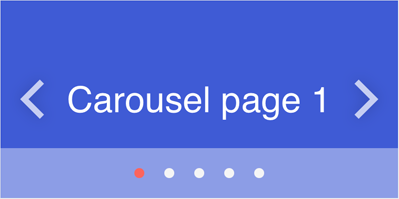
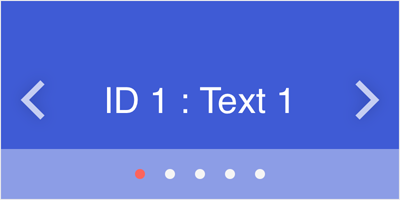
Improve Carousel docs - snippets, template explanation, screenshot

diff --git a/components/carousel/template.md b/components/carousel/template.md
@@ -10,6 +10,8 @@ position: 10
 
 # Carousel Template
 
+The Carousel template defines the markup to be rendered by the component. If a template is not set, the Carousel will not display anything.
+
 The nested `<Template>` tag of the `<TelerikCarousel>` represents a standard [`RenderFragment`](https://docs.microsoft.com/en-us/aspnet/core/blazor/components/templated-components).
 
 The template exposes a `context` parameter, which allows access to the Carousel model and its properties. The context variable can assume a custom name, which is needed for nesting templates of different components.
@@ -20,7 +22,7 @@ The template exposes a `context` parameter, which allows access to the Carousel 
 <TelerikCarousel Data="@CarouselData"
                  Width="400px" Height="200px">
     <Template Context="carouselContext">
-        <div class="carousel-item">@carouselContext.Name</div>
+        <div class="carousel-item">@carouselContext.Text</div>
     </Template>
 </TelerikCarousel>
 
@@ -37,13 +39,13 @@ The template exposes a `context` parameter, which allows access to the Carousel 
     public IEnumerable<CarouselModel> CarouselData = Enumerable.Range(1, 5).Select(x => new CarouselModel
     {
         ID = x,
-        Name = "Name " + x
+        Text = "Text " + x
     });
 
     public class CarouselModel
     {
         public int ID { get; set; }
-        public string Name { get; set; }
+        public string Text { get; set; }
     }
 }
 ````

diff --git a/components/carousel/overview.md b/components/carousel/overview.md
@@ -36,7 +36,7 @@ Here is a simple Carousel that has 5 pages with some styled text.
 <TelerikCarousel Data="@CarouselData"
                  Width="400px" Height="200px">
     <Template>
-        <div class="carousel-item">Carousel page @(context)</div>
+        <div class="carousel-item">ID @(context.ID) : @(context.Text)</div>
     </Template>
 </TelerikCarousel>
 
@@ -50,7 +50,17 @@ Here is a simple Carousel that has 5 pages with some styled text.
 </style>
 
 @code {
-    public List<int> CarouselData = Enumerable.Range(1, 5).ToList();
+    public IEnumerable<CarouselModel> CarouselData = Enumerable.Range(1, 5).Select(x => new CarouselModel
+    {
+        ID = x,
+        Text = "Text " + x
+    });
+
+    public class CarouselModel
+    {
+        public int ID { get; set; }
+        public string Text { get; set; }
+    }
 }
 ````
 >caption The snippet will produce the following result:

diff --git a/components/carousel/events.md b/components/carousel/events.md
@@ -12,6 +12,8 @@ position: 20
 
 This article describes the available events of the Telerik Carousel for Blazor.
 
+* [PageChanged](#pagechanged)
+
 ## PageChanged
 
 The `PageChanged` event fires when:
